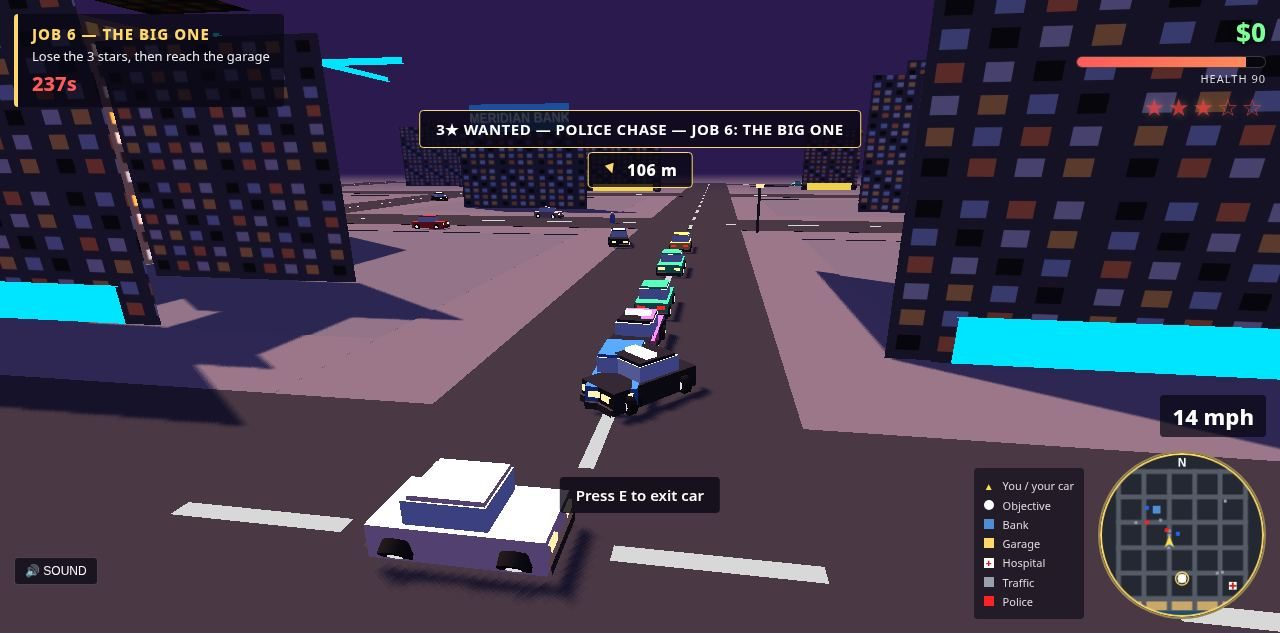
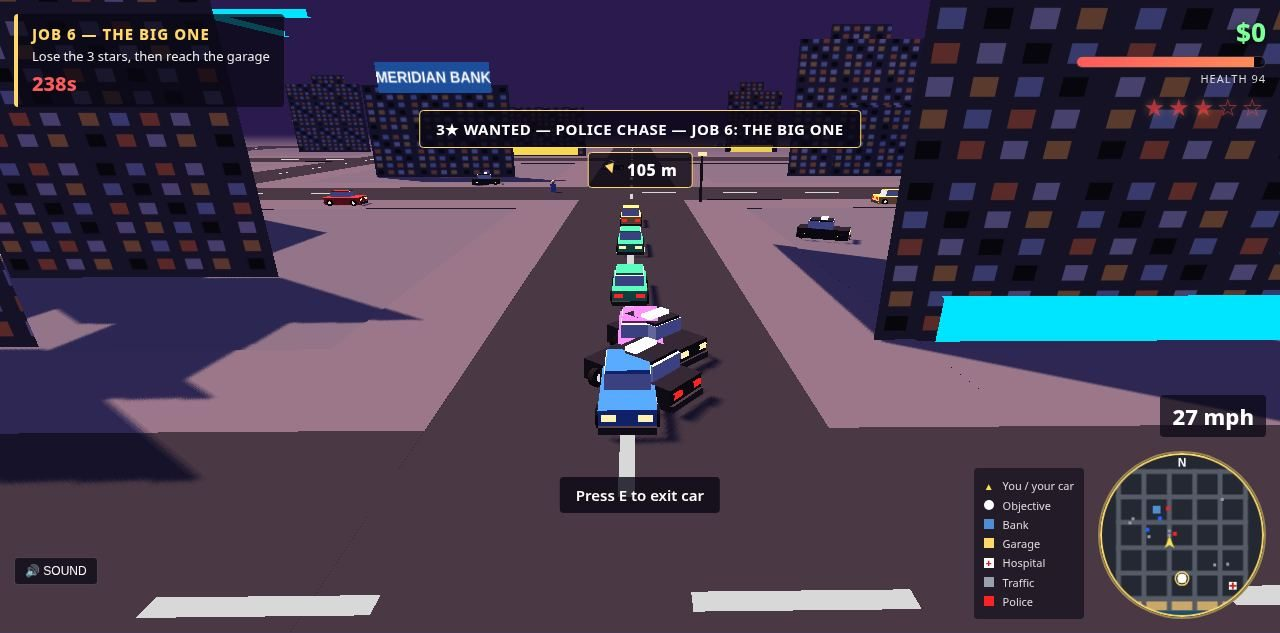
Neon Bay v3 fix-up ronde 3 (gta6-01): beacon emas pekat + kamera awal menghadap objective + fade jarak-kamera
- Beacon: AdditiveBlending -> NormalBlending, warna 0xffd76a -> 0xffb300
  (emas pekat). Aditif memucatkan kolom jadi (255,255,200) di Pages live.
- _faceObjective(): kamera awal menghadap objective (bearing 63 derajat
  dari sumbu kamera lama, di luar setengah FOV horizontal ~45 derajat -
  beacon tidak ada di frame pertama sama sekali). Dipanggil di
  startNewGame/continueGame/restart/respawn.
- Fade beacon kini berbasis jarak KAMERA (bukan pemain), 0 pada <=12 m
  dari sumbu kolom, penuh pada >=47 m: kamera yang jatuh di dalam kolom
  (shot 2 JOB 5, 2,6 m dari sumbu) tidak lagi menutupi seluruh layar
  dengan dinding emas.
- Minimap & panah TIDAK diubah: keduanya terverifikasi benar di Pages
  live (marker 100/100 piksel putih; rumus panah cocok proyeksi kamera).
- tools/shots.mjs: cover shot set camYaw=0 + _snapCamera (framing cover
  mengandalkan camYaw awal game yang kini berubah).
- Tes logika 19/19, probe-fix 18/18, screenshot 4/4 di-shoot ulang.

diff --git a/game/src/world.js b/game/src/world.js
@@ -380,10 +380,15 @@ export class World {
     // MENEMBUS gedung — suar penunjuk objective memang harus terlihat dari
     // mana saja, seperti quest marker. Fade saat mendekat tetap dipertahankan
     // supaya tidak menutupi adegan di sekitar target.
+    // RONDE 3: blending ADITIF ternyata memucatkan warna — diukur di Pages
+    // live, puncak kolom = RGB (255,255,200), nyaris putih, BUKAN emas.
+    // Additive menambahkan warna emas ke langit senja yang terang sehingga
+    // jenuh ke putih ("krem pucat"). Sekarang blending NORMAL + warna emas
+    // pekat 0xffb300: kolom tampil sebagai emas solid apa pun latarnya.
     const geo = new THREE.CylinderGeometry(7, 9, 260, 12, 1, true);
     const mat = new THREE.MeshBasicMaterial({
-      color: 0xffd76a, transparent: true, opacity: 0.6, fog: false,
-      blending: THREE.AdditiveBlending, side: THREE.DoubleSide, depthWrite: false,
+      color: 0xffb300, transparent: true, opacity: 0.85, fog: false,
+      blending: THREE.NormalBlending, side: THREE.DoubleSide, depthWrite: false,
       depthTest: false,
     });
     this.beacon = new THREE.Mesh(geo, mat);
@@ -429,13 +434,19 @@ export class World {
 
   update(dt, t, px, pz) {
     if (this.beacon && this.beacon.visible) {
-      // Suar memudar saat pemain mendekat: dari jauh tetap terang (mudah
-      // ditemukan), dari dekat nyaris transparan supaya tidak menutupi
-      // pemandangan/pemusuh di sekitar target (shot 2 dulu tertutup suar).
+      // Suar memudar saat KAMERA mendekat (px/pz = posisi kamera, dioper
+      // dari _render). RONDE 3: fade lama memakai jarak PEMAIN + lantai
+      // 0,18 — saat pemain berdiri 8 m dari beacon, kameranya bisa berada
+      // DI DALAM kolom (jarak 2,6 m dari sumbu, radius kolom 7–9 m) dan
+      // dinding emas solid menutupi SELURUH layar (shot 2 JOB 5: langit,
+      // laut, dan dermaga semuanya tercuci emas; thugs nyaris tak terlihat).
+      // Sekarang: kamera ≤12 m dari sumbu -> opacity 0 (kolom hilang total,
+      // cincin tanah tetap menandai target), ≥47 m -> penuh. Dari spawn
+      // (~170 m) suar tetap emas pekat dan jelas.
       const d = (px === undefined) ? 999
         : Math.hypot(px - this.beacon.position.x, pz - this.beacon.position.z);
-      const fade = Math.min(1, Math.max(0.18, (d - 8) / 42));
-      this.beacon.material.opacity = (0.45 + 0.15 * Math.sin(t * 3)) * fade;
+      const fade = Math.min(1, Math.max(0, (d - 12) / 35));
+      this.beacon.material.opacity = (0.7 + 0.15 * Math.sin(t * 3)) * fade;
       const s = 1 + 0.08 * Math.sin(t * 3);
       this.beaconRing.scale.set(s, s, 1);
     }

diff --git a/game/src/main.js b/game/src/main.js
@@ -355,6 +355,7 @@ class Game {
     this.audio.ensure();
     this.audio.startMusic();
     this.missions.startMission(0);
+    this._faceObjective(); // RONDE 3: frame pertama sudah menghadap beacon
     this.save();
   }
 
@@ -388,6 +389,7 @@ class Game {
       this.hud.setMission('FREE ROAM', 'All jobs complete. Explore Neon Bay.', null);
     } else {
       this.missions.startMission(s.mission || 0);
+      this._faceObjective(); // RONDE 3: frame pertama sudah menghadap beacon
     }
     this.setWanted(s.wanted || 0);
   }
@@ -446,6 +448,7 @@ class Game {
     this._snapCamera(); // D5: kamera langsung ikut ke rumah sakit
     // Misi yang sedang berjalan dimulai lagi dari awal.
     if (!this.missions.done) this.missions.startMission(this.missions.index);
+    this._faceObjective(); // RONDE 3: respawn menghadap objective
   }
 
   _die() {
@@ -570,6 +573,21 @@ class Game {
     const cy = 1.6 + dist * Math.sin(this.camPitch);
     this._camPos.set(cx, cy, cz);
     this._camYawSmooth = yaw;
+  }
+
+  // RONDE 3: kamera awal HARUS menghadap objective — di spawn, bearing ke
+  // pier = 63° dari sumbu kamera awal, sedangkan setengah FOV horizontal
+  // cuma ~45°, jadi beacon TIDAK ADA di frame pertama sama sekali (diukur
+  // di Pages live: proyeksi beacon (-792,-397), jauh di luar layar).
+  // Pemain baru tidak melihat suar tanpa memutar kamera ~180°. Hadapkan
+  // kamera ke beacon setiap kali misi dimulai dari awal / pemain respawn.
+  // Hanya bila ada misi aktif + beacon terlihat (free roam: tidak diapa-apakan).
+  _faceObjective() {
+    const b = this.world.beacon;
+    if (!b || !b.visible || !this.missions.active) return;
+    const p = this.player;
+    this.camYaw = Math.atan2(b.position.x - p.x, b.position.z - p.z) - p.heading;
+    this._snapCamera();
   }
 
   _onResize() {
@@ -900,7 +918,7 @@ class Game {
     this._syncPlayerMesh();
     this.fleet.sync(this.time, dt);
     this.people.sync();
-    this.world.update(dt, this.time, this.player.x, this.player.z);
+    this.world.update(dt, this.time, this._camPos.x, this._camPos.z);
     this.renderer.render(this.scene, this.camera);
   }
 

diff --git a/game/src/missions.js b/game/src/missions.js
@@ -177,6 +177,7 @@ export class MissionChain {
     g.respawnAtGarage();
     this._allowBack = true;
     this.startMission(this.index);
+    g._faceObjective(); // RONDE 3: restart menghadap objective
     // D5: restart HARUS terlihat — banner besar + kamera sudah dijepret ke
     // garasi oleh respawnAtGarage, jadi pemain langsung tahu ia kembali ke awal.
     g.banner('JOB RESTARTED', `${this.def.title} — back at the garage`);
